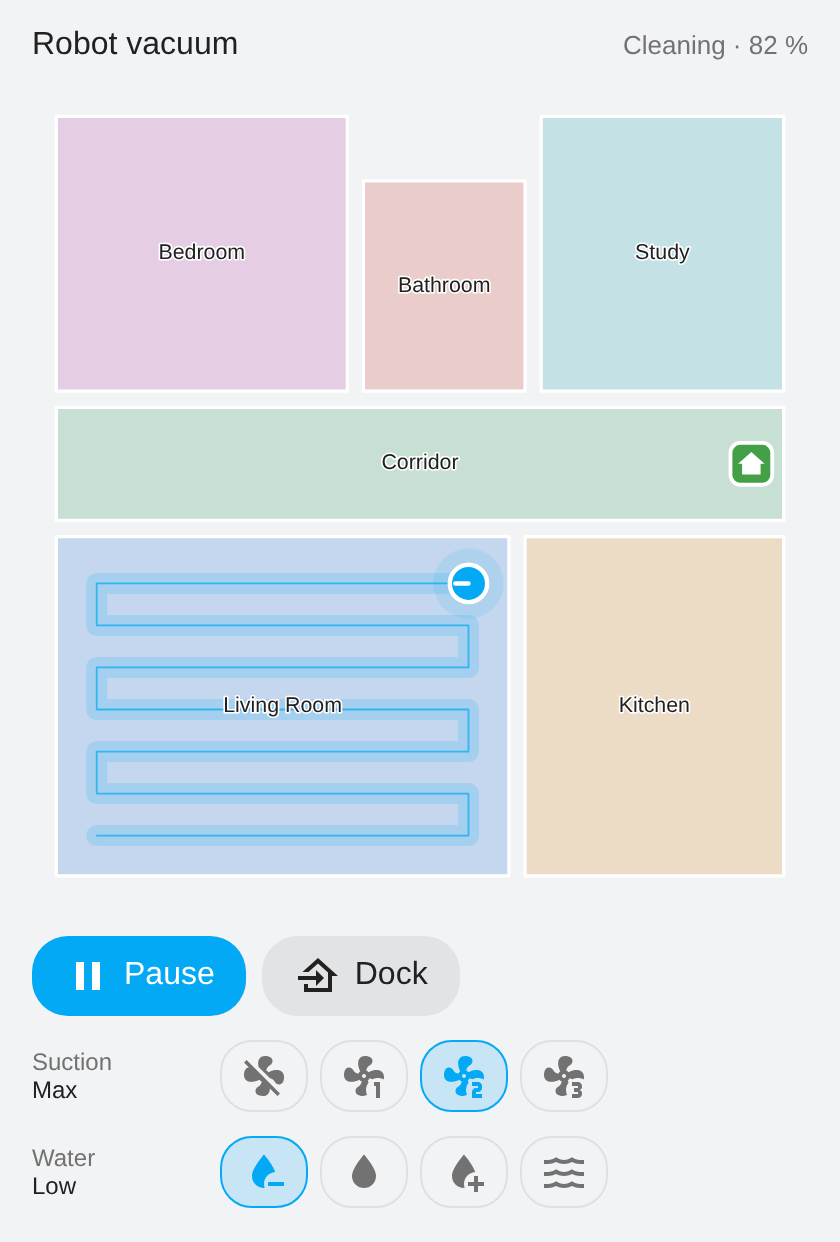
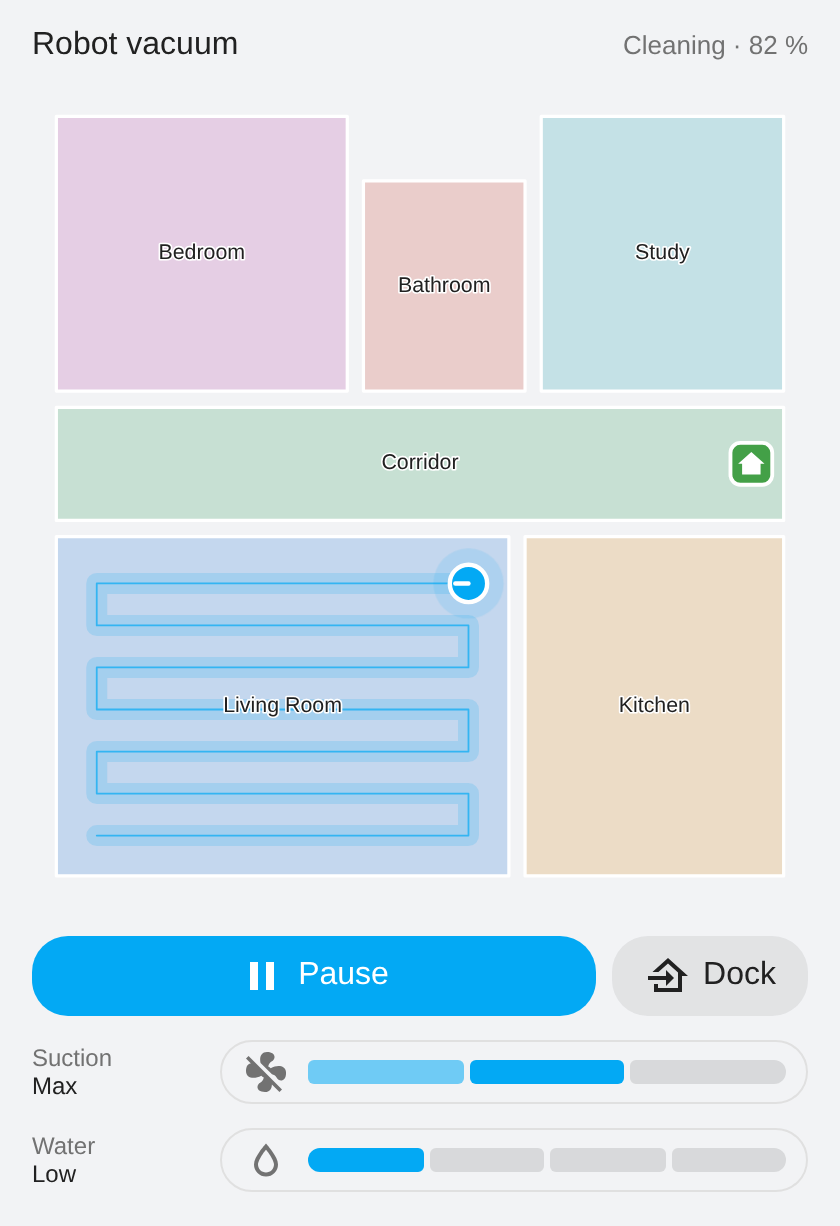
Map card: level gauges for suction and water, aligned controls; updated screenshots
Claude-Session: https://claude.ai/code/session_01TzmQFsLg8hWBQ41oZQZDcF

diff --git a/custom_components/yeedi/www/yeedi-map-card.js b/custom_components/yeedi/www/yeedi-map-card.js
@@ -292,9 +292,9 @@ class YeediMapCard extends HTMLElement {
     const paused = st.state === 'paused';
     const n = this._selected.length;
     let main;
-    if (moving) main = `<button class="btn" data-act="pause"><ha-icon icon="mdi:pause"></ha-icon>${text.pause}</button>`;
-    else if (paused) main = `<button class="btn" data-act="resume"><ha-icon icon="mdi:play"></ha-icon>${text.resume}</button>`;
-    else main = `<button class="btn" data-act="clean"><ha-icon icon="mdi:play"></ha-icon>${n ? text.clean_rooms(n) : text.clean}</button>`;
+    if (moving) main = `<button class="btn main" data-act="pause"><ha-icon icon="mdi:pause"></ha-icon>${text.pause}</button>`;
+    else if (paused) main = `<button class="btn main" data-act="resume"><ha-icon icon="mdi:play"></ha-icon>${text.resume}</button>`;
+    else main = `<button class="btn main" data-act="clean"><ha-icon icon="mdi:play"></ha-icon>${n ? text.clean_rooms(n) : text.clean}</button>`;
     const clear = n && !moving ? `<button class="btn flat" data-act="clear">${text.clear}</button>` : '';
     const dock = st.state !== 'docked' ? `<button class="btn flat" data-act="dock"><ha-icon icon="mdi:home-import-outline"></ha-icon>${text.dock}</button>` : '';
 
@@ -308,14 +308,32 @@ class YeediMapCard extends HTMLElement {
       if (this._hass.formatEntityAttributeValue) return this._hass.formatEntityAttributeValue(st, 'fan_speed', f);
       return f;
     };
-    const fan = fanList.length ? this._iconRow(text.fan, fanList, fanNow, fanLabel, FAN_ICONS, 'data-fan') : '';
+    // Mop only is a toggle in front of the suction gauge, not a level.
+    // It takes the place of the gauge icon: a tap turns the vacuum motor off.
+    const mopChip = fanList.includes('mop_only')
+      ? `<button class="gicon${fanNow === 'mop_only' ? ' on' : ''}" data-fan="mop_only" title="${esc(fanLabel('mop_only'))}" aria-label="${esc(fanLabel('mop_only'))}"><ha-icon icon="mdi:fan-off"></ha-icon></button>`
+      : '<ha-icon icon="mdi:fan"></ha-icon>';
+    const fan = fanList.length
+      ? this._levelRow(text.fan, mopChip, fanList.filter((f) => f !== 'mop_only'), fanNow, fanLabel, 'data-fan') : '';
 
     const wst = related.water ? this._hass.states[related.water] : null;
     const waterLabel = (o) => (this._hass.formatEntityState ? this._hass.formatEntityState(wst, o) : o);
     const water = wst && wst.attributes.options
-      ? this._iconRow(text.water, wst.attributes.options, wst.state, waterLabel, WATER_ICONS, 'data-water') : '';
+      ? this._levelRow(text.water, '<ha-icon icon="mdi:water-outline"></ha-icon>', wst.attributes.options, wst.state, waterLabel, 'data-water') : '';
 
     return `<div class="actions">${main}${clear}${dock}</div>${fan}${water}`;
+  }
+
+  _levelRow(title, icon, levels, current, labelOf, attr) {
+    // A gauge: one segment per level, filled up to the current one.
+    const at = levels.indexOf(current);
+    const segs = levels.map((o, i) => {
+      const label = labelOf(o);
+      return `<button class="seg${i <= at ? ' fill' : ''}${i === at ? ' on' : ''}" ${attr}="${esc(o)}" title="${esc(label)}" aria-label="${esc(label)}"></button>`;
+    }).join('');
+    const now = current != null ? labelOf(current) : '';
+    return `<div class="row"><span class="lbl">${esc(title)}<small>${esc(now)}</small></span>
+      <div class="chips"><div class="gauge">${icon}${segs}</div></div></div>`;
   }
 
   _iconRow(title, options, current, labelOf, icons, attr) {
@@ -386,18 +404,19 @@ const STYLE = `
   @keyframes pulse { 50% { opacity: .05; } }
   .msg { padding: 24px 16px; text-align: center; color: var(--secondary-text-color); font-size: 13px; }
   .msg.small { padding: 8px 16px 4px; }
-  .actions { display: flex; gap: 8px; padding: 10px 16px 6px; flex-wrap: wrap; }
+  .actions { display: flex; gap: 8px; padding: 10px 16px 6px; }
+  .btn.main { flex: 1 1 auto; justify-content: center; }
   .btn { display: inline-flex; align-items: center; gap: 6px; border: none; border-radius: 18px; padding: 8px 16px;
          font: 500 14px var(--paper-font-body1_-_font-family, inherit); cursor: pointer;
          background: var(--primary-color); color: var(--text-primary-color, #fff); }
   .btn.flat { background: color-mix(in srgb, var(--primary-text-color) 8%, transparent); color: var(--primary-text-color); }
   .btn ha-icon { --mdc-icon-size: 18px; }
-  .row { display: flex; align-items: center; gap: 10px; padding: 4px 0 4px 16px; }
+  .row { display: flex; align-items: center; gap: 10px; padding: 4px 16px; }
   .row:last-child { padding-bottom: 14px; }
   .lbl { font-size: 12px; color: var(--secondary-text-color); min-width: 84px; flex: 0 0 auto; display: flex; flex-direction: column; line-height: 1.2; }
   .lbl small { font-size: 12px; color: var(--primary-text-color); font-weight: 500; }
   .chips { display: flex; gap: 6px; flex-wrap: wrap; padding: 2px 0; }
-  .row .chips { flex-wrap: nowrap; overflow-x: auto; scrollbar-width: none; padding-right: 16px; }
+  .row .chips { flex: 1 1 auto; flex-wrap: nowrap; align-items: center; }
   .row .chips::-webkit-scrollbar { display: none; }
   .row .chip { white-space: nowrap; flex: 0 0 auto; }
   .msg + .chips { padding: 4px 16px 8px; }
@@ -409,6 +428,16 @@ const STYLE = `
   .chip.icon { padding: 5px 9px; border-radius: 16px; }
   .chip.icon ha-icon { --mdc-icon-size: 18px; color: var(--secondary-text-color); }
   .chip.icon.on ha-icon { color: var(--primary-color); }
+  .gauge { flex: 1 1 auto; display: flex; align-items: center; gap: 3px; padding: 4px 10px; border: 1px solid var(--divider-color); border-radius: 16px; box-sizing: border-box; height: 32px; }
+  .gicon { border: 0; background: none; padding: 0; margin: 0; cursor: pointer; display: inline-flex; align-items: center; }
+  .gicon.on ha-icon { color: var(--primary-color); }
+  .gauge ha-icon { --mdc-icon-size: 18px; color: var(--secondary-text-color); margin-right: 6px; }
+  .seg { flex: 1 1 0; height: 12px; border: 0; padding: 0; margin: 0; cursor: pointer; border-radius: 3px;
+         background: color-mix(in srgb, var(--primary-text-color) 12%, transparent); transition: background .15s; }
+  .seg:first-of-type { border-radius: 6px 3px 3px 6px; }
+  .seg:last-of-type { border-radius: 3px 6px 6px 3px; }
+  .seg.fill { background: color-mix(in srgb, var(--primary-color) 55%, transparent); }
+  .seg.on { background: var(--primary-color); }
 `;
 
 

diff --git a/CHANGELOG.md b/CHANGELOG.md
@@ -3,7 +3,7 @@
 ## 0.2.6
 - Map card: selected rooms stand out (others dimmed, coloured outline, numbered badge).
 - Map card: room names follow the Home Assistant area each room is associated with (vacuum entity settings), then the card's own `room_names`, then the robot.
-- Map card: icon chips for suction and water levels, robot drawn on the dock, visual editor with room names.
+- Map card: suction and water as level gauges (mop only toggles on the suction gauge), robot drawn on the dock, visual editor with room names.
 - Room outlines kept in storage and requested again when a cleaning starts.
 - Suction power select (shared with the vacuum fan speed, incl. mop only).
 - Brand images.
